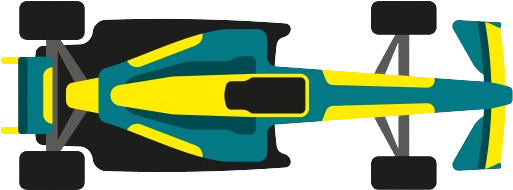
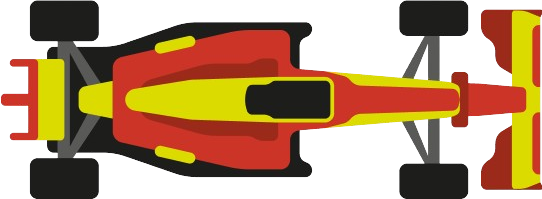
inicio implementação tela inicial

diff --git a/main.py b/main.py
@@ -1,37 +1,146 @@
 import pygame
-from sys import exit # pesquisar função dessa biblioteca !!!
+from sys import exit  # pesquisar função dessa biblioteca !!!
+
+# funcao gerar pergunta e resposta
+
+# funcao calcular movimentaçao do carro
 
 pygame.init()  # inicia o pygame (ajuda a renderizar imagens, tocar sons, etc)
 pygame.display.set_caption('Math Racing')
-# pesquisar adicionar icon na janela !!!
-screen = pygame.display.set_mode((1020, 580)) # definir hight and width
-screen.fill ((44, 43, 43, 1))
+# pygame.display.set_icon()
+screen = pygame.display.set_mode((900, 600))  # definir hight and width
+screen.fill((44, 43, 43, 1))
+
+# surfaces e rects
+carro_ferrari = pygame.image.load('images/carro_ferrari.png').convert_alpha()
+carro_ferrari = pygame.transform.rotozoom(carro_ferrari, 0, 0.65)
+carro_ferrari_rect = carro_ferrari.get_rect(center=(450, 340))
+txt_logo = pygame.image.load('images/txt_logo.png').convert_alpha()
+txt_logo = pygame.transform.rotozoom(txt_logo, 0, 0.7)
+txt_logo_rect = txt_logo.get_rect(center=(450, 200))
+xadrez = pygame.image.load('images/xadrez.png').convert_alpha() 
+xadrez = pygame.transform.rotozoom(xadrez, 0, 0.6) # nao fiz rect pq vai ser sempre no 0,0
+txt_qualquerbotao = pygame.image.load('images/txt qualquer botao.png').convert_alpha()
+txt_qualquerbotao = pygame.transform.rotozoom(txt_qualquerbotao, 0, 0.7)
+txt_qualquerbotao_rect = txt_qualquerbotao.get_rect(center=(450, 510))
+infos = pygame.image.load('images/icone_informacoes.png').convert_alpha()
+infos = pygame.transform.rotozoom(infos, 0, 0.7)
+infos_rect = infos.get_rect(center=(800, 120))
+
+carro1 = pygame.image.load('images/carro1.png').convert_alpha()
+carro1_rect = carro1.get_rect(midleft=(0, 290))
+carro2 = pygame.image.load('images/carro2.png').convert_alpha()
+carro2_rect = carro2.get_rect(midleft=(0, 350))
+
+# input_rect = pygame.Rect(100, 100, 140, 32)
+# input_color_inactive = pygame.Color('lightskyblue3')
+# input_color_active = pygame.Color('dodgerblue2')
+# input_color = input_color_inactive
+# input_active = False
+# text = ''
 
 game_active = False
+clock = pygame.time.Clock()
 
 # onde o jogo acontece
 while True:
 
     # checar todos os eventos
-    for event in pygame.event.get(): # o metodo capta os eventos e o loop passa por todos eles
-        if event.type == pygame.QUIT: # o mesmo que clicar no botão de x
-            pygame.quit() # pesuisar função certa !!!
-            exit() # uso do sys fecha todo codigo que tiver aberto, o código apenas acaba e fecha a janela
+    for event in pygame.event.get():  # o metodo capta os eventos e o loop passa por todos eles
+        if event.type == pygame.QUIT:  # o mesmo que clicar no botão de x
+            pygame.quit()  # pesuisar função certa !!!
+            exit()  # uso do sys fecha todo codigo que tiver aberto, o código apenas acaba e fecha a janela
+        
+        # Se o usuario apertou no input
+        # if event.type == pygame.MOUSEBUTTONDOWN:
+        #     if input_rect.collidepoint(event.pos):
+        #         input_active = not input_active
+        #     else:
+        #         input_active = False
+        #     input_color = input_color_active if input_active else input_color_inactive
+        
+        # Salva cada tecla apertada
+        # if event.type == pygame.KEYDOWN:
+        #     if input_active:
+        #         if event.key == pygame.K_RETURN:
+        #             # ** Faz o carro andar, passa a vez pro outro, salva resposta e etc **                         
+        #             print(text)
+        #             text = ''
+        #         elif event.key == pygame.K_BACKSPACE:
+        #             text = text[:-1]
+        #         else:
+        #             text += event.unicode
 
         if game_active:
+            screen.blit(carro1,carro_ferrari_rect)
+            # pausar jogo com esc e calcular tempo jogo pausado
+            # mouse motion para instruções
             ##########
         else:
             # reseta o jogo se apertar qualquer tecla apos endgame
             if event.type == pygame.KEYDOWN:
                 game_active = True
-        
+                start_time = pygame.time.get_ticks()
 
     if game_active:
-        ###########
-    else:
-        ###########
+        screen.blit(carro2,txt_qualquerbotao_rect)
+        # tela instruções por x segundos
+        # keys = pygame.key.get_pressed()
+        # tempo_1 = pygame.time.get_ticks()
+        # tempo_2 = pygame.time.get_ticks()
 
-    #atualiza tudo a cada frame
-    pygame.display.update() # atualiza o display constantemente
-    clock.tick(60) # entender como funciona esse forró
+        # player = 1
+
+        # se for turno do player 1
+            # chama funcao que gera pergunta e resposta
+            
+            # RENDERIZANDO O INPUT
+            # Render the current text.
+            # txt_surface = test_font.render(text, True, input_color)
+            # # Resize the box if the text is too long.
+            # width = max(200, txt_surface.get_width()+10)
+            # input_rect.w = width
+            # # Blit the text.
+            # screen.blit(txt_surface, (input_rect.x+5, input_rect.y+5))
+            # # Blit the input_box rect.
+            # pygame.draw.rect(screen, input_color, input_rect, 2)
+
+            # escreve os dois no txt
+            # if keys[pygame.(letra a)]
+                # resposta_player = A
+            # elif keys[pygame.letra b]
+                # resposta_player = B
+            # escreve respsot aplayer no txt
+            # se resposta usuario for igual a resposta 
+                # carrox.left += (chama funcao que usa o tempo do time atual - inicial)
+            # tempo_resposta = pygame.time.get_ticks()
+            # player = 2
+
+    else:
+        screen.blit(txt_logo,txt_logo_rect)
+        screen.blit(xadrez,(0,0))
+        screen.blit(txt_qualquerbotao,txt_qualquerbotao_rect)
+        screen.blit(infos,infos_rect)
+        screen.blit(carro_ferrari,carro_ferrari_rect)
+            # chama funcao que gera pergunta e resposta
+            # escreve os dois no txt
+            # if keys[pygame.(letra a)]
+                # resposta_player = A
+            # elif keys[pygame.letra b]
+                # resposta_player = B
+            # escreve respsot aplayer no txt
+            # se resposta usuario for igual a resposta 
+                # carrox.left += (chama funcao que usa o tempo do time atual - inicial)
+            # tempo_resposta = pygame.time.get_ticks()
+            # player = 1
+
+        ###########
+    # else:
+        # mostra carro vencedor ou tela inicial se nao tiver vencedor ainda
+        # escreve vencedor no txt
+        # play again
+
+    # atualiza tudo a cada frame
+    pygame.display.update()  # atualiza o display constantemente
+    clock.tick(60)  # entender como funciona esse forró
     # tells that the while loop should not run faster than 60 times per second (prevents the game from running too fast)(max framerate)
